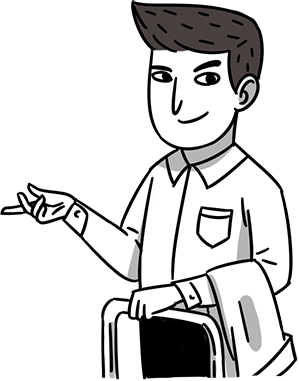
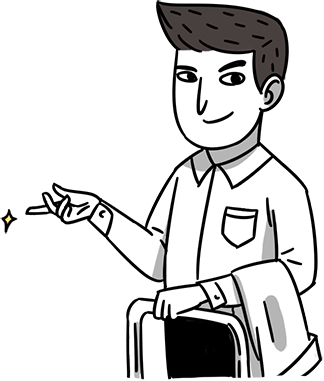
开发

Changed region(s): [[0.0, 0.0, 1.0, 1.0]]

diff --git a/src/components/qa1/qa.vue b/src/components/qa1/qa.vue
@@ -4,25 +4,30 @@
             <div class="ani-wrap">
                 <div class="g"></div>
                 <div class="m"></div>
-                <i class="qp"></i></div>
+                <i class="qp animated"></i>
+                <i class="key2"></i>
+            </div>
             <p>飞机延误就是晴空万里中突然暴风雨…坚决阻断了你回家的路。给你一次逃bug的机会，延误险到底buy不buy呢？</p>
             <ul class="answer">
                 <li @click="answerQ('A')">A.Buy啊，万一见鬼了呢？</li>
                 <li @click="answerQ('B')">B.Buy个毛，老子钱多？</li>
             </ul>
         </div>
+        <div class="qa-next" v-else>
+            <h2 class="title">Buy啊，万一见鬼了呢？</h2>
+            <div v-if="answer === 'A'">
+                <p>划重点，我的航班取消但不在理赔范围内！ 扎心了……</p>
 
-
-        <div v-if="answer === 'A'">
-            <p>划重点，我的航班取消但不在理赔范围内！ 扎心了……</p>
-
-            <div @click="nextQa">
-                就算心态有点崩，也算安全到家了。淡定吃鸡一把，准备带我亲爱的验房去an…准备进入坟墓，oh no~是求婚啦！</div>
-        </div>
-        <div v-if="answer === 'B'">
-            <p>没想到这一延误就是大半天！请完年假还要扣事假工资......心好塞……</p>
-            <div @click="nextQa">
-                就算心态有点崩，也算安全到家了。淡定吃鸡一把，准备带我亲爱的验房去an…准备进入坟墓，oh no~是求婚啦！</div>
+                <div @click="nextQa">
+                    就算心态有点崩，也算安全到家了。淡定吃鸡一把，准备带我亲爱的验房去an…准备进入坟墓，oh no~是求婚啦！
+                </div>
+            </div>
+            <div v-if="answer === 'B'">
+                <p>没想到这一延误就是大半天！请完年假还要扣事假工资......心好塞……</p>
+                <div @click="nextQa">
+                    就算心态有点崩，也算安全到家了。淡定吃鸡一把，准备带我亲爱的验房去an…准备进入坟墓，oh no~是求婚啦！
+                </div>
+            </div>
         </div>
     </div>
 </template>
@@ -30,20 +35,20 @@
 <script>
     export default {
         name: "qa1",
-        data(){
-            return{
-                qaIndex:true,
-                answer:''
+        data() {
+            return {
+                qaIndex: true,
+                answer: ''
             }
         },
-        methods:{
-            nextQa(){
+        methods: {
+            nextQa() {
                 this.$emit('stepNext');
             },
-            answerQ(data){
-                this.qaIndex=false;
+            answerQ(data) {
+                this.qaIndex = false;
                 this.answer = data;
-                this.$emit('setAnswer',data);
+                this.$emit('setAnswer', data);
             }
         }
     }
@@ -56,38 +61,136 @@
     @function rpx($value) {
         @return $value / $psdBaseSize * 10rem;
     }
-    @mixin ani($name,$time,$delay){
-        animation-name:$name;
+
+    @mixin ani($name,$time,$delay) {
+        animation-name: $name;
         animation-delay: $delay;
-        animation-duration:$time!important;
+        animation-duration: $time !important;
         animation-timing-function: linear;
     }
-    .ani-wrap{
+
+    .ani-wrap {
         width: rpx(718);
         height: rpx(780);
         margin: 0 auto;
         background: url(bg.jpg) no-repeat;
         background-size: 100% 100%;
+        position: relative;
+        .g {
+            width: rpx(109);
+            height: rpx(230);
+            background: url(g.png) no-repeat;
+            background-size: 100% 100%;
+            position: absolute;
+            left: rpx(40);
+            top: rpx(410);
+            animation: g .5s 1.5s linear forwards;
+        }
+        .m {
+            width: rpx(324);
+            height: rpx(381);
+            background: url(m.png) no-repeat;
+            background-size: 100% 100%;
+            position: absolute;
+            right: rpx(46);
+            bottom: rpx(10);
+            transition: none;
+            animation: m 0s 2s linear forwards;
+        }
+        i {
+            display: block;
+            position: absolute;
+        }
+        .qp {
+            width: rpx(284);
+            height: rpx(134);
+            background: url(qp.png) no-repeat;
+            background-size: 100% 100%;
+            top: rpx(280);
+            left: rpx(184);
+            @include ani(fadeIn, .5s, 1.5s);
+        }
+        .key2 {
+            width: rpx(49);
+            height: rpx(69);
+            background-image: url(key1.png);
+            background-size: 100% 100%;
+            right: rpx(320);
+            bottom: rpx(115);
+            transform-origin: right top;
+            animation: key 1.5s 0s linear infinite, fadeOut 0s 2s linear forwards;
+        }
     }
-    p{
+
+    @keyframes g {
+        0% {
+            height: rpx(230);
+            background-image: url(g.png);
+        }
+        100% {
+            height: rpx(229);
+            background-image: url(g2.png);
+        }
+    }
+
+    @keyframes m {
+        0% {
+            width: rpx(324);
+            height: rpx(381);
+            background-image: url(m.png);
+        }
+        100% {
+            width: rpx(213);
+            height: rpx(385);
+            background-image: url(m2.png);
+        }
+    }
+
+    @keyframes key {
+        50% {
+            transform: translateZ(0) rotate(-49deg);
+            bottom: rpx(125);
+        }
+        0%, 100% {
+            transform: translateZ(0) rotate(0deg)
+        }
+    }
+
+    p {
         width: rpx(718);
         margin: rpx(40) auto 0;
-        font-size:rpx(28);
+        font-size: rpx(28);
         line-height: rpx(36);
         font-weight: 600;
     }
-    .answer{
-        li{
+
+    .answer {
+        li {
             width: rpx(667);
             height: rpx(96);
             line-height: rpx(96);
             text-align: center;
             color: #000;
-            font-size:rpx(31);
-            font-weight:600;
+            font-size: rpx(31);
+            font-weight: 600;
             background: url(btn.png) no-repeat;
-            background-size:100% 100%;
+            background-size: 100% 100%;
             margin: rpx(20) auto;
         }
+    }
+    .qa-next{
+        padding: 0 rpx(25);
+    }
+    .title{
+        width: rpx(472);
+        height: rpx(137);
+        background: url(title.png) no-repeat;
+        background-size:100% 100%;
+        color: #fff;
+        font-size:rpx(36);
+        line-height: rpx(170);
+        box-sizing: border-box;
+        padding-left:rpx(30);
+        margin-top:rpx(47)
     }
 </style>
